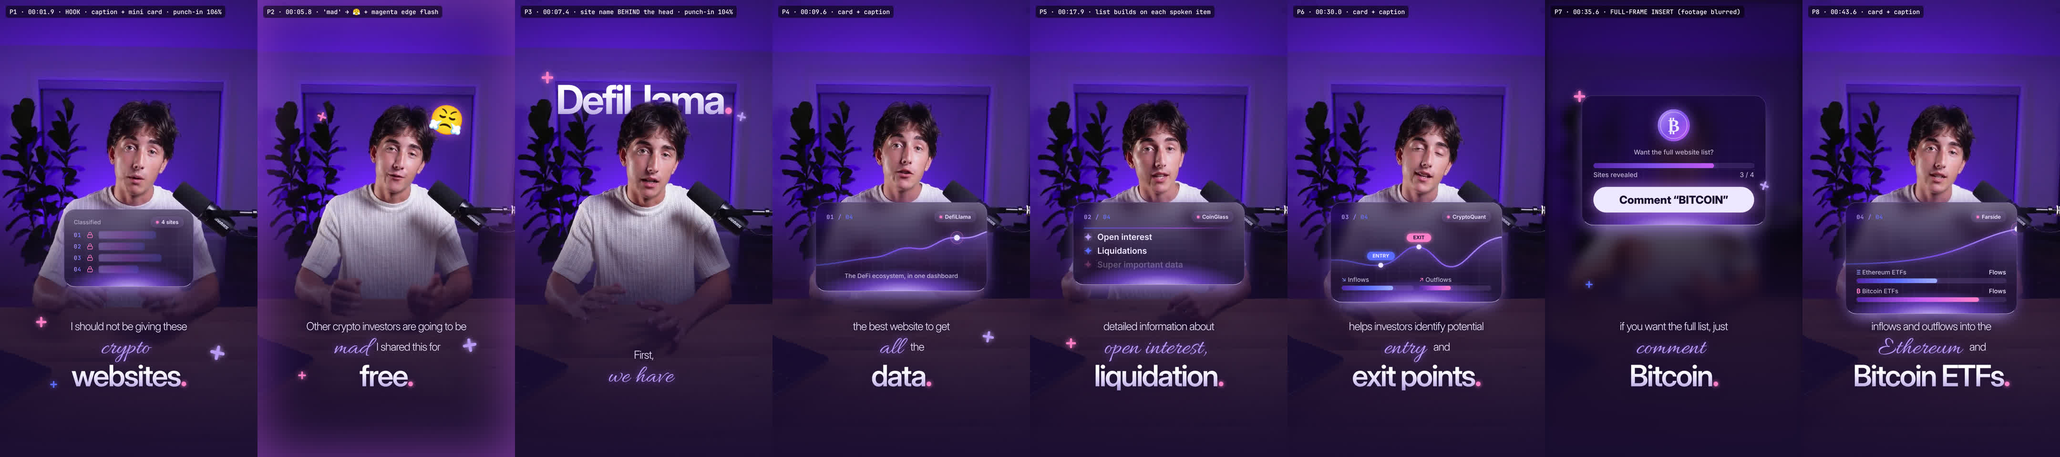
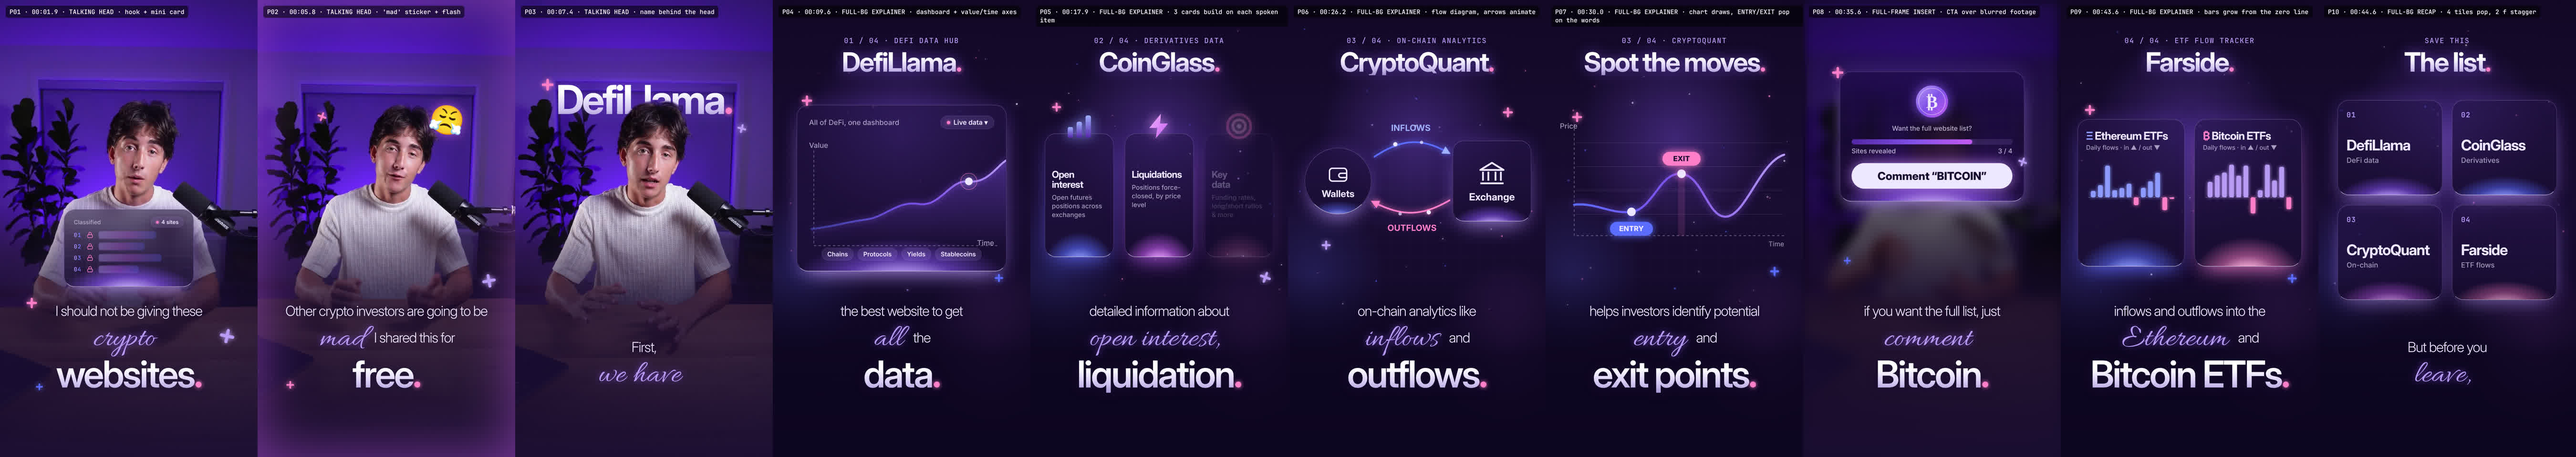
Preview v4: bigger captions, full-background explainer scenes for each site
Claude-Session: https://claude.ai/code/session_01YWNjH6VRuoykyRp75aXQoX

diff --git a/edit/preview/build_frames.py b/edit/preview/build_frames.py
@@ -31,11 +31,11 @@ body{{width:1080px;height:1920px;overflow:hidden;font-family:Inter,sans-serif;co
 .dot{{display:inline-block;width:.16em;height:.16em;border-radius:50%;background:var(--rose);box-shadow:0 0 18px var(--rose);margin-left:.04em}}
 
 /* lower-third caption lockup (light / script / heavy) */
-.cap{{position:absolute;left:0;right:0;bottom:280px;text-align:center;z-index:6}}
-.cap .l1{{font:300 46px 'Inter Display';letter-spacing:-1.6px;line-height:1.1;text-shadow:0 2px 18px rgba(25,13,50,.9)}}
-.cap .l2{{font:300 46px 'Inter Display';letter-spacing:-1.6px;line-height:1;margin-top:-6px}}
-.cap .s{{font:400 104px 'Allura';letter-spacing:0;color:var(--lilac);filter:drop-shadow(0 0 14px rgba(128,80,232,.8));margin-right:26px;padding:0 6px;position:relative;top:10px}}
-.cap .l3{{font:600 124px 'Inter Display';letter-spacing:-6px;line-height:1;margin-top:-4px;
+.cap{{position:absolute;left:0;right:0;bottom:270px;text-align:center;z-index:6}}
+.cap .l1{{font:300 58px 'Inter Display';letter-spacing:-2px;line-height:1.1;max-width:900px;margin:0 auto;text-shadow:0 2px 18px rgba(25,13,50,.9)}}
+.cap .l2{{font:300 58px 'Inter Display';letter-spacing:-2px;line-height:1;margin-top:-6px}}
+.cap .s{{font:400 132px 'Allura';letter-spacing:0;color:var(--lilac);filter:drop-shadow(0 0 14px rgba(128,80,232,.8));margin-right:36px;padding:0 6px;position:relative;top:10px}}
+.cap .l3{{font:600 156px 'Inter Display';letter-spacing:-7px;line-height:1;margin-top:-4px;
   background:linear-gradient(180deg,#FFFFFF 35%,#D7CCF5 70%,#A898D6);-webkit-background-clip:text;color:transparent;
   filter:drop-shadow(0 4px 20px rgba(25,13,50,.8))}}
 
@@ -110,96 +110,219 @@ def page(t, body_back="", body_front="", tag="", punch=1.0, insert=False):
     return f'''<!DOCTYPE html><html><head><meta charset="utf-8"><style>{CSS}</style></head><body>
 {layers}{body_front}<div class="tag">{tag}</div></body></html>'''
 
+
+# ───────────────────────── full-background explainer scenes ─────────────────────────
+XCSS = """
+.xbg{position:absolute;inset:0;background:
+  radial-gradient(55% 32% at 50% 30%,rgba(128,80,232,.38),transparent 70%),
+  radial-gradient(40% 25% at 85% 75%,rgba(198,91,242,.22),transparent 70%),
+  radial-gradient(40% 25% at 10% 60%,rgba(91,108,255,.18),transparent 70%),
+  linear-gradient(180deg,#120826,#190D32 45%,#0D0620)}
+.xgrid{position:absolute;inset:0;background-image:linear-gradient(rgba(185,154,245,.06) 2px,transparent 2px),linear-gradient(90deg,rgba(185,154,245,.06) 2px,transparent 2px);
+  background-size:72px 72px;-webkit-mask-image:radial-gradient(70% 55% at 50% 40%,#000,transparent)}
+.pt{position:absolute;border-radius:50%;background:#EEE7FF}
+.xhead{position:absolute;left:0;right:0;top:150px;text-align:center;z-index:4}
+.xhead .k{font:600 30px 'JetBrains Mono';letter-spacing:3px;color:var(--lilac)}
+.xhead .t{font:700 112px 'Inter Display';letter-spacing:-5px;line-height:1;margin-top:14px;
+  background:linear-gradient(180deg,#FFFFFF 35%,#CFC3F0 75%,#9C8CC9);-webkit-background-clip:text;color:transparent;filter:drop-shadow(0 0 26px rgba(128,80,232,.6))}
+.gc{position:absolute;border-radius:48px;overflow:hidden;z-index:4;
+  background:linear-gradient(180deg,rgba(40,22,80,.55),rgba(25,13,50,.9));
+  border:2px solid rgba(185,154,245,.28);border-bottom-color:rgba(238,231,255,.8);
+  box-shadow:0 50px 90px -45px var(--glow,rgba(185,154,245,.9)),0 0 80px rgba(128,80,232,.25),inset 0 1px 0 rgba(238,231,255,.18)}
+.gc:after{content:'';position:absolute;left:-10%;right:-10%;bottom:0;height:60%;z-index:0;pointer-events:none;
+  background:radial-gradient(55% 60% at 50% 115%,#EEE7FF 0%,var(--g1,#B99AF5) 20%,var(--g2,rgba(128,80,232,.6)) 45%,transparent 80%)}
+.gc > *{position:relative;z-index:1}
+.ax{font:500 30px Inter;color:rgba(238,231,255,.65)}
+.mini{font:600 26px Inter;padding:10px 22px;border-radius:999px;background:rgba(185,154,245,.14);border:1.5px solid rgba(185,154,245,.3)}
+"""
+
+import random
+def particles(n=26, seed=3):
+    r = random.Random(seed); out = []
+    for _ in range(n):
+        x, y, sz, o = r.randint(30, 1050), r.randint(120, 1300), r.choice([4, 5, 6, 8]), r.uniform(.25, .8)
+        c = r.choice(["#EEE7FF", "#B99AF5", "#FF7EC8", "#5B6CFF"])
+        out.append(f'<div class="pt" style="left:{x}px;top:{y}px;width:{sz}px;height:{sz}px;opacity:{o:.2f};background:{c};box-shadow:0 0 {sz*3}px {c}"></div>')
+    return "".join(out)
+
+def xpage(body, caption, tag, seed=3):
+    return f'''<!DOCTYPE html><html><head><meta charset="utf-8"><style>{CSS}{XCSS}</style></head><body>
+<div class="xbg"></div><div class="xgrid"></div>{particles(seed=seed)}{body}
+<div class="L" style="z-index:5;background:linear-gradient(180deg,transparent 60%,rgba(13,6,32,.85) 78%)"></div>{caption}<div class="tag">{tag}</div></body></html>'''
+
+def xhead(k, t):
+    return f'<div class="xhead"><div class="k">{k}</div><div class="t">{t}<span class="dot"></span></div></div>'
+
+ICON = {
+ "bars": '<svg viewBox="0 0 64 64" width="120" height="120"><defs><linearGradient id="ib" x1="0" y1="1" x2="0" y2="0"><stop offset="0" stop-color="#5426A8"/><stop offset="1" stop-color="#9FB0FF"/></linearGradient></defs><rect x="6" y="34" width="12" height="24" rx="4" fill="url(#ib)"/><rect x="26" y="22" width="12" height="36" rx="4" fill="url(#ib)"/><rect x="46" y="8" width="12" height="50" rx="4" fill="url(#ib)"/></svg>',
+ "bolt": '<svg viewBox="0 0 64 64" width="120" height="120"><defs><linearGradient id="il" x1="0" y1="0" x2="1" y2="1"><stop offset="0" stop-color="#F3B6FF"/><stop offset="1" stop-color="#C65BF2"/></linearGradient></defs><path d="M36 4 10 36h18l-4 24 28-34H34z" fill="url(#il)"/></svg>',
+ "target": '<svg viewBox="0 0 64 64" width="120" height="120" fill="none"><circle cx="32" cy="32" r="26" stroke="#FF7EC8" stroke-width="6"/><circle cx="32" cy="32" r="14" stroke="#FFB3DD" stroke-width="6"/><circle cx="32" cy="32" r="5" fill="#FFE3F2"/></svg>',
+ "wallet": '<svg viewBox="0 0 64 64" width="96" height="96" fill="none" stroke="#EEE7FF" stroke-width="4"><rect x="8" y="16" width="48" height="36" rx="8"/><path d="M40 30h16v12H40a6 6 0 0 1 0-12z"/></svg>',
+ "bank": '<svg viewBox="0 0 64 64" width="120" height="120" fill="none" stroke="#EEE7FF" stroke-width="4" stroke-linejoin="round"><path d="M6 24 32 8l26 16z"/><path d="M12 28v20M24 28v20M40 28v20M52 28v20M6 54h52"/></svg>',
+}
+
 F = {}
 
-# P1 — HOOK (caption + mini "classified" card). punch-in 106 %
-F["P1_hook"] = page("1.9", body_front=f'''
+# ── talking head frames ──
+F["P01_hook"] = page("1.9", body_front=f'''
 <div class="card" style="top:880px;left:200px;right:200px"><div class="grid"></div><div class="in" style="padding:36px 50px 50px">
 <div class="meta"><span>Classified</span><span class="chip">4 sites</span></div>
 {''.join(f'<div class="row" style="margin:20px 0"><span class="num">0{i}</span>{LOCK}<div class="redact" style="width:{w}px"></div></div>' for i,w in [(1,300),(2,240),(3,330),(4,210)])}
 </div></div>
 {cap("I should not be giving these", "crypto", "", "websites")}
-{plus(150, 1330, 46)}{plus(880, 1450, 64, "#B99AF5", 12)}{plus(210, 1600, 30, "#5B6CFF")}''',
- tag="P1 · 00:01.9 · HOOK · caption + mini card · punch-in 106%", punch=1.06)
+{plus(110, 1250, 46)}{plus(920, 1380, 64, "#B99AF5", 12)}{plus(150, 1610, 30, "#5B6CFF")}''',
+ tag="P01 · 00:01.9 · TALKING HEAD · hook + mini card", punch=1.06)
 
-# P2 — MAD / FREE (caption + concrete-noun sticker + magenta edge flash)
-F["P2_free"] = page("5.8", body_front=f'''
+F["P02_free"] = page("5.8", body_front=f'''
 <div class="L" style="z-index:4;box-shadow:inset 0 0 220px rgba(198,91,242,.55)"></div>
 <div style="position:absolute;left:720px;top:430px;font-size:120px;transform:rotate(14deg);z-index:6;filter:drop-shadow(0 0 24px rgba(198,91,242,.8))">😤</div>
 {plus(250, 470, 40, "#FF7EC8", 20)}
 {cap("Other crypto investors are going to be", "mad", "I shared this for", "free")}
-{plus(860, 1420, 60, "#B99AF5", -10)}{plus(170, 1560, 34)}''',
- tag="P2 · 00:05.8 · 'mad' → 😤 + magenta edge flash")
+{plus(940, 1150, 60, "#B99AF5", -10)}{plus(120, 1600, 34)}''',
+ tag="P02 · 00:05.8 · TALKING HEAD · 'mad' sticker + flash")
 
-# P3 — SITE 1 NAME (hero word behind the head)
-F["P3_defillama_name"] = page("7.4", body_back=behind("", "DefiLlama"), body_front=f'''
-{plus(110, 300, 52)}{plus(930, 470, 40, "#B99AF5", 15)}
+F["P03_defillama_name"] = page("7.4", body_back=behind("", "DefiLlama"), body_front=f'''
+{plus(110, 330, 52)}{plus(930, 520, 40, "#B99AF5", 15)}
 {cap("First,", "we have", "", "")}''',
- tag="P3 · 00:07.4 · site name BEHIND the head · punch-in 104%", punch=1.04)
+ tag="P03 · 00:07.4 · TALKING HEAD · name behind the head", punch=1.04)
 
-# P4 — SITE 1 DATA (card + caption)
-F["P4_defillama_card"] = page("9.6", body_front=f'''
-<div class="card"><div class="grid"></div><div class="in">
-<div class="meta"><span class="num">01 / 04</span><span class="chip">DefiLlama</span></div>
-<div style="margin:26px -56px 0">{glow_line("M0 200 C120 192 200 168 300 160 S420 96 520 112 S640 48 740 56 S860 32 900 24", 900, 220, dot=(740,56))}</div>
-<div class="label" style="text-align:center;margin-top:16px">The DeFi ecosystem, in one dashboard</div>
-</div></div>
-{cap("the best website to get", "all", "the", "data")}
-{plus(880, 1390, 50, "#B99AF5", 10)}''',
- tag="P4 · 00:09.6 · card + caption")
+# ── explainer: DefiLlama dashboard ──
+CURVE = "M0 330 C90 320 150 300 230 290 S360 210 450 225 S580 120 660 130 S780 60 820 40"
+F["P04_defillama_explainer"] = xpage(f'''
+{xhead("01 / 04 · DEFI DATA HUB", "DefiLlama")}
+<div class="gc" style="left:100px;right:100px;top:440px;height:700px;padding:44px 50px">
+ <div style="display:flex;justify-content:space-between;align-items:center"><span class="ax">All of DeFi, one dashboard</span><span class="chip">Live data ▾</span></div>
+ <div class="ax" style="position:absolute;left:50px;top:150px">Value</div>
+ <svg width="780" height="420" style="position:absolute;left:60px;top:190px;overflow:visible">
+  <path d="M10 0 V400 H780" fill="none" stroke="rgba(238,231,255,.45)" stroke-width="2.5" stroke-dasharray="10 10"/>
+  <defs><linearGradient id="dl" x1="0" x2="1"><stop offset="0" stop-color="#5B6CFF" stop-opacity=".4"/><stop offset=".6" stop-color="#8050E8"/><stop offset="1" stop-color="#B99AF5"/></linearGradient>
+  <linearGradient id="df" x1="0" y1="0" x2="0" y2="1"><stop offset="0" stop-color="#8050E8" stop-opacity=".4"/><stop offset="1" stop-color="#8050E8" stop-opacity="0"/></linearGradient></defs>
+  <path d="{CURVE} L820 400 L0 400Z" fill="url(#df)"/>
+  <path d="{CURVE}" fill="none" stroke="url(#dl)" stroke-width="8" stroke-linecap="round" style="filter:drop-shadow(0 0 14px #8050E8)"/>
+  <circle cx="660" cy="130" r="34" fill="none" stroke="#FF7EC8" stroke-opacity=".6" stroke-width="2.5"/>
+  <circle cx="660" cy="130" r="16" fill="#EEE7FF" style="filter:drop-shadow(0 0 18px #B99AF5)"/>
+ </svg>
+ <div class="ax" style="position:absolute;right:50px;top:560px">Time</div>
+ <div style="position:absolute;left:50px;right:50px;bottom:44px;display:flex;gap:18px;justify-content:center">
+  <span class="mini">Chains</span><span class="mini">Protocols</span><span class="mini">Yields</span><span class="mini">Stablecoins</span></div>
+</div>
+{plus(120, 400, 46)}{plus(930, 1150, 36, "#5B6CFF")}''',
+ cap("the best website to get", "all", "the", "data"),
+ "P04 · 00:09.6 · FULL-BG EXPLAINER · dashboard + value/time axes", seed=4)
 
-# P5 — SITE 2 (checklist card + caption)
-F["P5_coinglass"] = page("17.9", body_front=f'''
-<div class="card"><div class="grid"></div><div class="in">
-<div class="meta"><span class="num">02 / 04</span><span class="chip">CoinGlass</span></div>
-<div style="height:3px;margin:30px 0 8px;background:linear-gradient(90deg,#5B6CFF,#8050E8,#C65BF2,transparent);box-shadow:0 0 16px #8050E8"></div>
-<div class="row">{star("#B99AF5")}Open interest</div>
-<div class="row">{star("#5B6CFF")}Liquidations</div>
-<div class="row" style="opacity:.3">{star("#FF7EC8")}Super important data</div>
-</div></div>
-{cap("detailed information about", "open interest,", "", "liquidation")}
-{plus(150, 1420, 44)}''',
- tag="P5 · 00:17.9 · list builds on each spoken item")
+# ── explainer: CoinGlass three cards ──
+def tri(x, icon, title, sub, g1, g2, glow, op=1):
+    return f'''<div class="gc" style="left:{x}px;top:560px;width:290px;height:520px;padding:150px 28px 0;--g1:{g1};--g2:{g2};--glow:{glow};opacity:{op}">
+<div style="font:700 40px 'Inter Display';letter-spacing:-1.5px;line-height:1.05">{title}</div>
+<div class="ax" style="margin-top:16px;font-size:27px;line-height:1.35">{sub}</div></div>
+<div style="position:absolute;left:{x+85}px;top:470px;z-index:6;opacity:{op};filter:drop-shadow(0 0 26px {g1})">{icon}</div>'''
+F["P05_coinglass_explainer"] = xpage(f'''
+{xhead("02 / 04 · DERIVATIVES DATA", "CoinGlass")}
+{tri(60, ICON["bars"], "Open<br>interest", "Open futures positions across exchanges", "#8E9BFF", "rgba(91,108,255,.6)", "rgba(91,108,255,.9)")}
+{tri(395, ICON["bolt"], "Liquidations", "Positions force-closed, by price level", "#E7A0FF", "rgba(198,91,242,.6)", "rgba(198,91,242,.9)")}
+{tri(730, ICON["target"], "Key<br>data", "Funding rates, long/short ratios &amp; more", "#FFB3DD", "rgba(255,126,200,.55)", "rgba(255,126,200,.9)", op=.3)}
+{plus(90, 430, 40)}{plus(960, 1140, 50, "#B99AF5", 20)}''',
+ cap("detailed information about", "open interest,", "", "liquidation"),
+ "P05 · 00:17.9 · FULL-BG EXPLAINER · 3 cards build on each spoken item", seed=5)
 
-# P6 — SITE 3 (card + caption)
-F["P6_cryptoquant"] = page("30.0", body_front=f'''
-<div class="card"><div class="grid"></div><div class="in">
-<div class="meta"><span class="num">03 / 04</span><span class="chip">CryptoQuant</span></div>
-<div style="margin:30px -56px 0">{glow_line("M0 170 C100 160 160 205 260 196 S380 90 460 100 S560 212 640 204 S760 64 900 48", 900, 230,
- extra='<g font-family="Inter" font-weight="700" font-size="26"><circle cx="262" cy="196" r="13" fill="#EEE7FF" style="filter:drop-shadow(0 0 14px #B99AF5)"/><rect x="190" y="126" width="146" height="44" rx="22" fill="#5B6CFF" style="filter:drop-shadow(0 0 12px #5B6CFF)"/><text x="263" y="156" fill="#EEE7FF" text-anchor="middle">ENTRY</text><circle cx="462" cy="100" r="13" fill="#EEE7FF" style="filter:drop-shadow(0 0 14px #B99AF5)"/><rect x="398" y="30" width="128" height="44" rx="22" fill="#FF7EC8" style="filter:drop-shadow(0 0 12px #FF7EC8)"/><text x="462" y="60" fill="#190D32" text-anchor="middle">EXIT</text></g>')}</div>
-<div style="display:flex;gap:30px;margin-top:22px"><div style="flex:1"><div class="label"><span style="color:#8E9BFF">↘</span> Inflows</div><div class="bar b" style="margin-top:12px"><i style="width:72%"></i></div></div>
-<div style="flex:1"><div class="label"><span style="color:#FF7EC8">↗</span> Outflows</div><div class="bar r" style="margin-top:12px"><i style="width:44%"></i></div></div></div>
-</div></div>
-{cap("helps investors identify potential", "entry", "and", "exit points")}''',
- tag="P6 · 00:30.0 · card + caption")
+# ── explainer: CryptoQuant flow diagram ──
+F["P06_cryptoquant_flows"] = xpage(f'''
+{xhead("03 / 04 · ON-CHAIN ANALYTICS", "CryptoQuant")}
+<div class="gc" style="left:70px;top:620px;width:280px;height:280px;border-radius:50%;display:flex;flex-direction:column;align-items:center;justify-content:center;--g1:#8E9BFF;--g2:rgba(91,108,255,.5)">
+ {ICON["wallet"]}<div style="font:700 40px 'Inter Display';margin-top:10px">Wallets</div></div>
+<div class="gc" style="left:690px;top:590px;width:330px;height:340px;display:flex;flex-direction:column;align-items:center;justify-content:center">
+ {ICON["bank"]}<div style="font:700 42px 'Inter Display';margin-top:12px">Exchange</div></div>
+<svg width="1080" height="600" style="position:absolute;left:0;top:520px;z-index:5;overflow:visible">
+ <defs><marker id="ah" viewBox="0 0 10 10" refX="6" refY="5" markerWidth="5" markerHeight="5" orient="auto"><path d="M0 0L10 5L0 10z" fill="#9FB0FF"/></marker>
+ <marker id="ah2" viewBox="0 0 10 10" refX="6" refY="5" markerWidth="5" markerHeight="5" orient="auto"><path d="M0 0L10 5L0 10z" fill="#FF7EC8"/></marker></defs>
+ <path d="M360 140 C480 60 560 60 670 120" fill="none" stroke="#5B6CFF" stroke-width="7" marker-end="url(#ah)" style="filter:drop-shadow(0 0 12px #5B6CFF)"/>
+ <path d="M680 320 C560 390 480 390 360 330" fill="none" stroke="#FF7EC8" stroke-width="7" marker-end="url(#ah2)" style="filter:drop-shadow(0 0 12px #FF7EC8)"/>
+ <circle cx="450" cy="86" r="9" fill="#EEE7FF" style="filter:drop-shadow(0 0 10px #9FB0FF)"/><circle cx="560" cy="78" r="7" fill="#EEE7FF" opacity=".7"/>
+ <circle cx="590" cy="372" r="9" fill="#EEE7FF" style="filter:drop-shadow(0 0 10px #FF7EC8)"/><circle cx="470" cy="378" r="7" fill="#EEE7FF" opacity=".7"/>
+ <text x="515" y="30" fill="#9FB0FF" font-family="Inter" font-weight="700" font-size="36" text-anchor="middle">INFLOWS</text>
+ <text x="520" y="450" fill="#FF7EC8" font-family="Inter" font-weight="700" font-size="36" text-anchor="middle">OUTFLOWS</text>
+</svg>
+{plus(140, 1010, 40, "#B99AF5")}{plus(900, 450, 44)}''',
+ cap("on-chain analytics like", "inflows", "and", "outflows"),
+ "P06 · 00:26.2 · FULL-BG EXPLAINER · flow diagram, arrows animate", seed=6)
 
-# P7 — CTA (full-frame graphic insert)
+# ── explainer: CryptoQuant entry / exit chart (ref: growth chart w/ axes) ──
+WAVE = "M0 300 C90 290 150 340 240 330 S360 160 450 170 S560 360 640 350 S780 120 880 90"
+F["P07_cryptoquant_entry_exit"] = xpage(f'''
+{xhead("03 / 04 · CRYPTOQUANT", "Spot the moves")}
+<svg width="960" height="560" style="position:absolute;left:60px;top:520px;z-index:4;overflow:visible">
+ {''.join(f'<line x1="60" x2="940" y1="{y}" y2="{y}" stroke="rgba(238,231,255,.12)" stroke-width="2"/>' for y in (80,180,280,380))}
+ <path d="M60 0 V470 H940" fill="none" stroke="rgba(238,231,255,.45)" stroke-width="2.5" stroke-dasharray="10 10"/>
+ <text x="0" y="20" class="ax" fill="rgba(238,231,255,.65)" font-family="Inter" font-size="28">Price</text>
+ <text x="940" y="515" fill="rgba(238,231,255,.65)" font-family="Inter" font-size="28" text-anchor="end">Time</text>
+ <g transform="translate(60 40)">
+  <defs><linearGradient id="wl" x1="0" x2="1"><stop offset="0" stop-color="#5B6CFF"/><stop offset=".5" stop-color="#8050E8"/><stop offset="1" stop-color="#B99AF5"/></linearGradient></defs>
+  <rect x="226" y="330" width="28" height="100" fill="url(#wl)" opacity=".18"/><rect x="436" y="170" width="28" height="260" fill="#FF7EC8" opacity=".12"/>
+  <path d="{WAVE}" fill="none" stroke="url(#wl)" stroke-width="9" stroke-linecap="round" style="filter:drop-shadow(0 0 16px #8050E8)"/>
+  <circle cx="240" cy="330" r="18" fill="#EEE7FF" style="filter:drop-shadow(0 0 16px #5B6CFF)"/>
+  <rect x="150" y="372" width="180" height="58" rx="29" fill="#5B6CFF" style="filter:drop-shadow(0 0 16px #5B6CFF)"/><text x="240" y="411" fill="#EEE7FF" font-family="Inter" font-weight="800" font-size="30" text-anchor="middle">ENTRY</text>
+  <circle cx="450" cy="170" r="18" fill="#EEE7FF" style="filter:drop-shadow(0 0 16px #FF7EC8)"/>
+  <rect x="370" y="78" width="160" height="58" rx="29" fill="#FF7EC8" style="filter:drop-shadow(0 0 16px #FF7EC8)"/><text x="450" y="117" fill="#190D32" font-family="Inter" font-weight="800" font-size="30" text-anchor="middle">EXIT</text>
+ </g>
+</svg>
+{plus(110, 470, 44)}{plus(940, 1120, 40, "#5B6CFF")}''',
+ cap("helps investors identify potential", "entry", "and", "exit points"),
+ "P07 · 00:30.0 · FULL-BG EXPLAINER · chart draws, ENTRY/EXIT pop on the words", seed=7)
+
+# ── CTA (blurred footage insert) ──
 COIN = '''<svg width="170" height="170" viewBox="0 0 100 100" style="display:block;margin:0 auto;filter:drop-shadow(0 0 30px #8050E8)">
 <defs><linearGradient id="cg" x1="0" y1="0" x2="1" y2="1"><stop offset="0" stop-color="#B99AF5"/><stop offset=".5" stop-color="#8050E8"/><stop offset="1" stop-color="#C65BF2"/></linearGradient></defs>
 <circle cx="50" cy="50" r="46" fill="url(#cg)"/><circle cx="50" cy="50" r="38" fill="none" stroke="#EEE7FF" stroke-opacity=".5" stroke-width="2"/>
 <text x="50" y="68" text-anchor="middle" font-family="DejaVu Sans" font-weight="700" font-size="50" fill="#EEE7FF">₿</text></svg>'''
-F["P7_cta"] = page("35.6", insert=True, body_front=f'''
-<div class="card" style="top:400px;transform:scale(.86)"><div class="grid"></div><div class="in" style="text-align:center;padding-top:60px">
+F["P08_cta"] = page("35.6", insert=True, body_front=f'''
+<div class="card" style="top:300px;transform:scale(.86)"><div class="grid"></div><div class="in" style="text-align:center;padding-top:60px">
 {COIN}
 <div class="label" style="margin-top:26px">Want the full website list?</div>
 <div class="bar" style="margin:34px 0 12px"><i style="width:75%"></i></div>
 <div style="display:flex;justify-content:space-between" class="label"><span>Sites revealed</span><span>3 / 4</span></div>
 <div class="white" style="margin-top:40px">Comment “BITCOIN”</div>
 </div></div>
-{plus(120, 380, 50)}{plus(900, 760, 40, "#B99AF5", 20)}{plus(170, 1180, 30, "#5B6CFF")}
+{plus(120, 280, 50)}{plus(900, 660, 40, "#B99AF5", 20)}{plus(170, 1080, 30, "#5B6CFF")}
 {cap("if you want the full list, just", "comment", "", "Bitcoin")}''',
- tag="P7 · 00:35.6 · FULL-FRAME INSERT (footage blurred)")
+ tag="P08 · 00:35.6 · FULL-FRAME INSERT · CTA over blurred footage")
 
-# P8 — SITE 4 (card + caption)
-F["P8_farside"] = page("43.6", body_front=f'''
-<div class="card"><div class="grid"></div><div class="in">
-<div class="meta"><span class="num">04 / 04</span><span class="chip">Farside</span></div>
-<div style="margin:20px -56px 0">{glow_line("M0 200 C200 198 380 184 520 144 S760 40 900 16", 900, 210, dot=(900,16))}</div>
-<div style="margin-top:14px"><div style="display:flex;justify-content:space-between" class="label"><span><b style="color:#8E9BFF">Ξ</b> Ethereum ETFs</span><span style="color:#EEE7FF">Flows</span></div><div class="bar b" style="margin:12px 0 22px"><i style="width:54%"></i></div>
-<div style="display:flex;justify-content:space-between" class="label"><span><b style="color:#FF7EC8">₿</b> Bitcoin ETFs</span><span style="color:#EEE7FF">Flows</span></div><div class="bar r" style="margin-top:12px"><i style="width:82%"></i></div></div>
-</div></div>
-{cap("inflows and outflows into the", "Ethereum", "and", "Bitcoin ETFs")}''',
- tag="P8 · 00:43.6 · card + caption")
+# ── explainer: Farside ETF flows ──
+def flowbars(seed, colpos, colneg):
+    r = random.Random(seed); out = []
+    for i in range(12):
+        v = r.uniform(-.5, 1)
+        h = abs(v) * 150; x = 20 + i * 30
+        y = 170 - h if v > 0 else 170
+        c = colpos if v > 0 else colneg
+        out.append(f'<rect x="{x}" y="{y:.0f}" width="20" height="{h:.0f}" rx="6" fill="{c}" style="filter:drop-shadow(0 0 8px {c})"/>')
+    return f'<svg width="380" height="340" style="display:block;margin-top:24px"><line x1="10" x2="380" y1="170" y2="170" stroke="rgba(238,231,255,.4)" stroke-dasharray="8 8" stroke-width="2"/>{"".join(out)}</svg>'
+F["P09_farside_explainer"] = xpage(f'''
+{xhead("04 / 04 · ETF FLOW TRACKER", "Farside")}
+<div class="gc" style="left:70px;top:500px;width:450px;height:620px;padding:40px 34px;--g1:#8E9BFF;--g2:rgba(91,108,255,.55);--glow:rgba(91,108,255,.9)">
+ <div style="font:700 46px 'Inter Display';letter-spacing:-1.5px"><span style="color:#8E9BFF">Ξ</span> Ethereum ETFs</div>
+ <div class="ax" style="margin-top:6px;font-size:26px">Daily flows · in ▲ / out ▼</div>
+ {flowbars(11, "#8E9BFF", "#FF7EC8")}</div>
+<div class="gc" style="left:560px;top:500px;width:450px;height:620px;padding:40px 34px;--g1:#FFB3DD;--g2:rgba(255,126,200,.5);--glow:rgba(255,126,200,.9)">
+ <div style="font:700 46px 'Inter Display';letter-spacing:-1.5px"><span style="color:#FF7EC8">₿</span> Bitcoin ETFs</div>
+ <div class="ax" style="margin-top:6px;font-size:26px">Daily flows · in ▲ / out ▼</div>
+ {flowbars(5, "#B99AF5", "#FF7EC8")}</div>
+{plus(100, 440, 44)}{plus(950, 1150, 40, "#5B6CFF")}''',
+ cap("inflows and outflows into the", "Ethereum", "and", "Bitcoin ETFs"),
+ "P09 · 00:43.6 · FULL-BG EXPLAINER · bars grow from the zero line", seed=9)
+
+# ── recap grid (ref: app tiles) ──
+def tile(x, y, n, name, what, g1, g2):
+    return f'''<div class="gc" style="left:{x}px;top:{y}px;width:440px;height:400px;padding:40px 36px;--g1:{g1};--g2:{g2}">
+<div class="num">{n}</div><div style="font:700 62px 'Inter Display';letter-spacing:-2.5px;margin-top:70px">{name}</div>
+<div class="ax" style="margin-top:8px">{what}</div></div>'''
+F["P10_recap"] = xpage(f'''
+{xhead("SAVE THIS", "The list")}
+{tile(80, 420, "01", "DefiLlama", "DeFi data", "#B99AF5", "rgba(128,80,232,.6)")}
+{tile(560, 420, "02", "CoinGlass", "Derivatives", "#8E9BFF", "rgba(91,108,255,.55)")}
+{tile(80, 860, "03", "CryptoQuant", "On-chain", "#E7A0FF", "rgba(198,91,242,.55)")}
+{tile(560, 860, "04", "Farside", "ETF flows", "#FFB3DD", "rgba(255,126,200,.5)")}''',
+ cap("But before you", "", "", "leave", dot=False).replace('</div></div>', ',</div></div>', 1) if False else cap("But before you", "leave,", "", ""),
+ "P10 · 00:44.6 · FULL-BG RECAP · 4 tiles pop, 2 f stagger", seed=10)
 
 for k, v in F.items():
     (OUT / f"{k}.html").write_text(v)

diff --git a/edit/storyboard.md b/edit/storyboard.md
@@ -1,8 +1,8 @@
-# Storyboard v3 — "Crypto websites I shouldn't be sharing"
+# Storyboard v4 — "Crypto websites I shouldn't be sharing"
 
 **Source:** `hb_1794061643210.mp4` · 45.4 s · 1080×1920 · 30 fps · one locked-off talking-head shot (purple-lit room).
 **Status:** PREVIEW ONLY — awaiting approval. Nothing is built yet.
-**Preview frames:** `edit/preview/P1…P8.png` (real stills from your footage with the planned overlays) and `edit/preview/board.jpg` (all 8 side by side).
+**Preview frames:** `edit/preview/P01…P10.png`: 4 talking-head frames using real stills from your footage, plus 6 full-background explainer scenes. `edit/preview/board.jpg` shows all 10 side by side.
 **Style source:** your `video-motion-study` skill (the rules in `study/STUDY.md` §3–4), your 8 reference images (glass cards, glow) and your caption reference ("You're not / *competing* on / **price.**").
 
 ---
@@ -27,13 +27,13 @@
 | Rose | `#FF7EC8` | The **dot** after every heavy word, `+` sparkles, chip status dots, locks, EXIT tag, outflows / Bitcoin bars |
 
 ### Captions: lower third, in your reference's three-line style
-Each caption block is centred, with its bottom edge 280 px above the bottom of the frame, so it stays clear of the Instagram/TikTok buttons.
+Each caption block is centred, with its bottom edge 270 px above the bottom of the frame, so it stays clear of the Instagram/TikTok buttons. Sizes went up about 25 % in v4.
 
 | Line | Font | Size / tracking | Colour |
 |---|---|---|---|
-| 1. Setup line | **Inter Display Light** | 46 px, −1.6 | Mist, soft dark shadow |
-| 2. Accent word | **Allura** (script, OFL font, saved in `edit/preview/fonts/`), optionally followed by more light words | 104 px | Lilac with a violet glow |
-| 3. Hero word | **Inter Display SemiBold**, ending in a **rose dot** like "price." | 124 px, −6 | White fading to grey-lilac (metallic) |
+| 1. Setup line | **Inter Display Light** | 58 px, −2 (wraps at 900 px) | Mist, soft dark shadow |
+| 2. Accent word | **Allura** (script, OFL font, saved in `edit/preview/fonts/`), optionally followed by more light words | 132 px | Lilac with a violet glow |
+| 3. Hero word | **Inter Display SemiBold**, ending in a **rose dot** like "price." | 156 px, −7 | White fading to grey-lilac (metallic) |
 
 **Font matching:**
 - The light and heavy lines are the closest match to the Helvetica-style sans in your reference.
@@ -51,12 +51,15 @@ Each caption block is centred, with its bottom edge 280 px above the bottom of t
 
 ## 2. Modes (your skill: switch mode every 1.3–2.5 s so the eye never settles)
 
+Rhythm: **talking head** (hook, each site name behind the head) → **full-background explainer** for each site's details → back to the talking head. About 55 % of the runtime is full motion graphics.
+
 | Mode | What it is | Preview |
 |---|---|---|
-| **A · Caption only** | Footage + lower-third caption + sparkles / stickers | P1, P2 |
-| **B · Name behind head** | A site name goes up behind the head; the caption carries the setup ("Second, we have") | P3 |
-| **C · Card** | A glass data card on the chest + caption | P4, P5, P6, P8 |
-| **D · Full-frame insert** | Footage blurred and darkened, one big centred card + caption | P7 |
+| **A · Caption only** | Footage + lower-third caption + sparkles / stickers | P01, P02 |
+| **B · Name behind head** | A site name goes up behind the head; the caption carries the setup ("Second, we have") | P03 |
+| **C · Chest card** | A small glass card on the chest + caption | P01 (hook "Classified" card) |
+| **D · Full-frame insert** | Footage blurred and darkened, one big centred card + caption | P08 |
+| **E · Full-background explainer** | No footage. A dark Ink background with violet / magenta / blue light pools, a faint grid and drifting particles, plus a full-screen motion-graphics diagram (dashboard, three cards, flow diagram, chart with axes, ETF flow bars, recap tiles). The voice keeps playing and captions stay in the lower third. | P04–P07, P09, P10 |
 
 ---
 
@@ -84,22 +87,22 @@ Timings come from `edit/transcript.md`. **Bold** words are the trigger frames.
 | # | Time (s) | Mode | Spoken | Caption: light / *script* / **heavy.** | Other on screen |
 |---|---|---|---|---|---|
 | 1 | 0.00–1.50 | A | "I should not be giving these" | I should not be giving these | Shot entry; push-in 100→106 % starts |
-| 2 | 1.50–2.94 | A + mini card | "**crypto websites** away." | *crypto* (1.50) / **websites.** (1.82) | Small "Classified" card pops at 1.82 with 4 locked, blurred rows (P1) |
+| 2 | 1.50–2.94 | A + mini card | "**crypto websites** away." | *crypto* (1.50) / **websites.** (1.82) | Small "Classified" card pops at 1.82 with 4 locked, blurred rows (P01) |
 | 3 | 2.94–4.46 | A | "Other crypto investors are going to be" | Other crypto investors are going to be | Card exits |
-| 4 | 4.46–5.70 | A + sticker | "**mad** I shared this for" | *mad* (4.46) I shared this for | 😤 sticker pops beside the head; magenta edge flash, 3 f (P2) |
+| 4 | 4.46–5.70 | A + sticker | "**mad** I shared this for" | *mad* (4.46) I shared this for | 😤 sticker pops beside the head; magenta edge flash, 3 f (P02) |
 | 5 | 5.70–6.34 | A | "**free**." | **free.** (5.70) | 4 f punch-in |
-| 6 | 6.34–8.70 | B | "First, we have **DefiLlama**," | First, / *we have* | **DefiLlama.** behind the head at 6.74 (P3); lilac flash at 6.34 |
-| 7 | 8.70–11.96 | C | "the best website to get **all the data** you need in the DeFi **ecosystem**." | the best website to get / *all* the / **data.** (9.34) → you need in the / *DeFi* / **ecosystem.** (11.06) | Card 01: graph draws at 8.84, dot at 9.34 (P4) |
+| 6 | 6.34–8.70 | B | "First, we have **DefiLlama**," | First, / *we have* | **DefiLlama.** behind the head at 6.74 (P03); lilac flash at 6.34 |
+| 7 | 8.70–11.96 | **E** | "the best website to get **all the data** you need in the DeFi **ecosystem**." | the best website to get / *all* the / **data.** (9.34) → you need in the / *DeFi* / **ecosystem.** (11.06) | **Dashboard explainer:** glass dashboard with dashed Value/Time axes; the curve draws on at 8.84 and the dot pops at 9.34; chips (Chains · Protocols · Yields · Stablecoins) pop in one by one at 10.58 (P04) |
 | 8 | 11.96–14.00 | B | "Second, we have **CoinGlass**." | Second, / *we have* | **CoinGlass.** behind the head at 12.98 |
-| 9 | 14.00–20.56 | C | "This website gives clear and detailed information about **open interest**, **liquidation** and other **super important data**." | gives clear and / *detailed* / **information.** → about / *open interest,* / **liquidation.** → and other super / *important* / **data.** | Card 02 checklist: rows at 16.70, 17.84, 19.04 (P5); punch-in at 17.84 |
+| 9 | 14.00–20.56 | **E** | "This website gives clear and detailed information about **open interest**, **liquidation** and other **super important data**." | gives clear and / *detailed* / **information.** → about / *open interest,* / **liquidation.** → and other super / *important* / **data.** | **Three-card explainer** (from your 3-card reference): Open interest (blue) at 16.70, Liquidations (magenta) at 17.84, Key data (rose) at 19.04; each glowing icon drops onto its card (P05) |
 | 10 | 20.56–22.68 | B | "Third, we have **CryptoQuant**.com." | Third, / *we have* | **CryptoQuant.** behind the head at 21.12 |
-| 11 | 22.68–27.72 | C | "This website offers **on-chain** analytics like **inflows** and **outflows** on the exchange." | offers / *on-chain* / **analytics.** → like / *inflows* and / **outflows.** | Card 03: chip at 23.62, blue inflow bar at 25.32, rose outflow bar at 26.16 |
-| 12 | 27.72–31.82 | C | "It helps investors identify potential **entry** and **exit** points." | helps investors identify potential / *entry* and / **exit points.** (30.66) | Graph draws at 28.0, ENTRY tag at 29.84, EXIT at 30.66 (P6); punch-in at 27.72 |
+| 11 | 22.68–27.72 | **E** | "This website offers **on-chain** analytics like **inflows** and **outflows** on the exchange." | offers / *on-chain* / **analytics.** → like / *inflows* and / **outflows.** | **Flow diagram:** Wallets ↔ Exchange; the blue INFLOWS arrow draws at 25.32 and the rose OUTFLOWS arrow at 26.16, with particles running along both (P06) |
+| 12 | 27.72–31.82 | **E** | "It helps investors identify potential **entry** and **exit** points." | helps investors identify potential / *entry* and / **exit points.** (30.66) | **Chart explainer** (from your growth-chart reference): "Spot the moves." with dashed Price/Time axes; the wave draws at 28.0, the ENTRY tag and highlight band at 29.84, EXIT at 30.66 (P07) |
 | 13 | 31.82–33.50 | A | "Before we get into the **last** one," | Before we get into the / *last* / **one.** | Zoom-out reset to 100 % |
-| 14 | 33.50–37.42 | D | "if you want the full website list, just **comment Bitcoin** and I'll send it over to you." | if you want the full list, just / *comment* / **Bitcoin.** (35.40) | Full-frame insert: ₿ coin pops, progress bar 3/4, white **Comment "BITCOIN"** button at 35.12 (P7) |
+| 14 | 33.50–37.42 | D | "if you want the full website list, just **comment Bitcoin** and I'll send it over to you." | if you want the full list, just / *comment* / **Bitcoin.** (35.40) | Full-frame insert: ₿ coin pops, progress bar 3/4, white **Comment "BITCOIN"** button at 35.12 (P08) |
 | 15 | 37.42–39.20 | B | "And lastly, we have **Farside**." | And lastly, / *we have* | **Farside.** behind the head at 38.34 |
-| 16 | 39.20–44.52 | C | "On this website, you can track the inflows and outflows into the **Ethereum** and **Bitcoin ETFs**." | you can / *track* the / **inflows.** → into the / *Ethereum* and / **Bitcoin ETFs.** (43.24) | Card 04: graph draws at 40.44, blue Ethereum bar at 42.34, rose Bitcoin bar at 43.24 (P8) |
-| 17 | 44.52–end | D | "But before you leave," *(cut off)* | — | Recap: 4 mini glass tiles (one per site) pop in a 2×2 grid, 2 f stagger, then end |
+| 16 | 39.20–44.52 | **E** | "On this website, you can track the inflows and outflows into the **Ethereum** and **Bitcoin ETFs**." | you can / *track* the / **inflows.** → into the / *Ethereum* and / **Bitcoin ETFs.** (43.24) | **ETF flow explainer:** two glass panels (Ethereum ETFs blue, Bitcoin ETFs rose); daily bars grow up and down from a dashed zero line; the Ethereum panel lands at 42.34, Bitcoin at 43.24 (P09) |
+| 17 | 44.52–end | **E** | "But before you leave," *(cut off)* | But before you / *leave,* | **Recap:** "The list." with 4 glass tiles (DefiLlama · CoinGlass · CryptoQuant · Farside), 2 f stagger, then end (P10) |
 
 ---
 
